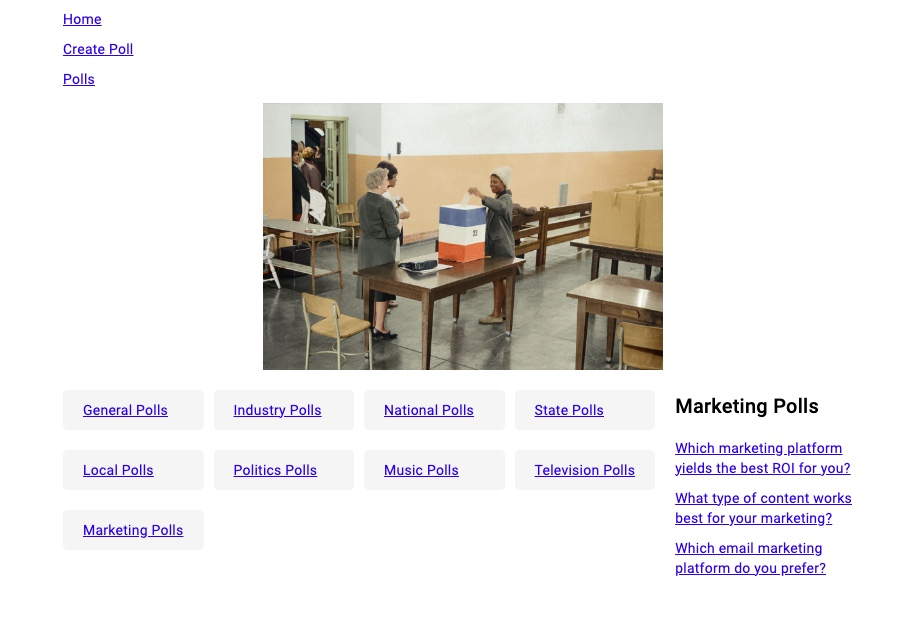
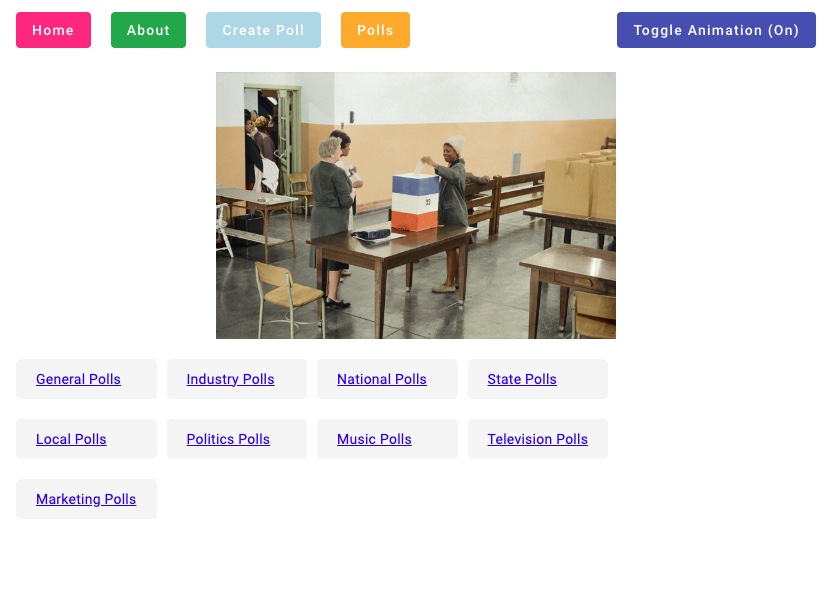
add about page

diff --git a/pollquest.html b/pollquest.html
@@ -54,7 +54,21 @@
 
                 <div class="profile-content-wrapper">
                     <h2>Home Page</h2>
-                    <p>The landing page of PollQuest welcomes users with an intuitive design. It showcases the primary features and prompts users to either create or participate in polls. The modern UI/UX ensures a seamless navigation experience.</p>
+                    <p>The home page of PollQuest allows users to effortlessly scroll through a feed of polls. This intuitive design enables users to swiftly navigate and answer polls, ensuring a seamless and efficient user experience. The modern UI/UX maintains the ease of participation, allowing for quick responses to multiple polls.</p>
+                </div>
+            </div>
+
+            <br>
+            <p>About Page of website: </p>
+            <div class="two-column-wrapper">
+                <!-- Placeholder for Angular Project Image 1 -->
+                <div class="profile-image-wrapper">
+                    <img src="assets/images/about.jpg" alt="Angular Project 1" id="angular1" class="border">
+                </div>
+
+                <div class="profile-content-wrapper">
+                    <h2>About Page</h2>
+                    <p>The 'About' page of PollQuest warmly greets visitors, providing comprehensive insight into the platform. It clearly outlines the main features and objectives of PollQuest, offering guidance for those looking to create or participate in polls. The modern UI/UX design of the 'About' page ensures a seamless and informative navigation experience for all users.</p>
                 </div>
             </div>
 
@@ -69,7 +83,7 @@
 
                 <div class="profile-content-wrapper">
                     <h2>Polls Page</h2>
-                    <p>This section aggregates all the polls available for users to vote on. Each poll is displayed with relevant information, allowing users to quickly understand and participate. Filters provide an easy way to sort and find specific polls.</p>
+                    <p>This section aggregates all the polls available for users to vote on, making it easy to find polls by category. Each poll is displayed with relevant information, allowing users to quickly understand and participate. Filters provide an easy way to sort and find specific polls.</p>
                 </div>
             </div>
 
@@ -90,7 +104,7 @@
 
             <br>
 
-            <p>Options to make different Industry polls: </p>
+            <p>Options to make different category polls: </p>
             <div class="two-column-wrapper">
                 <!-- Placeholder for Angular Project Image 1 -->
                 <div class="profile-image-wrapper">
@@ -98,8 +112,8 @@
                 </div>
 
                 <div class="profile-content-wrapper">
-                    <h2>Industry Polls</h2>
-                    <p>PollQuest offers specialized polls for various industries. Users can navigate to this section to view or create polls tailored for specific sectors, ensuring targeted and relevant feedback.</p>
+                    <h2>Category Polls</h2>
+                    <p>PollQuest offers specialized polls for various categories and industries. Users can navigate to this section to view or create polls tailored for specific sectors, ensuring targeted and relevant feedback.</p>
                 </div>
             </div>
 
